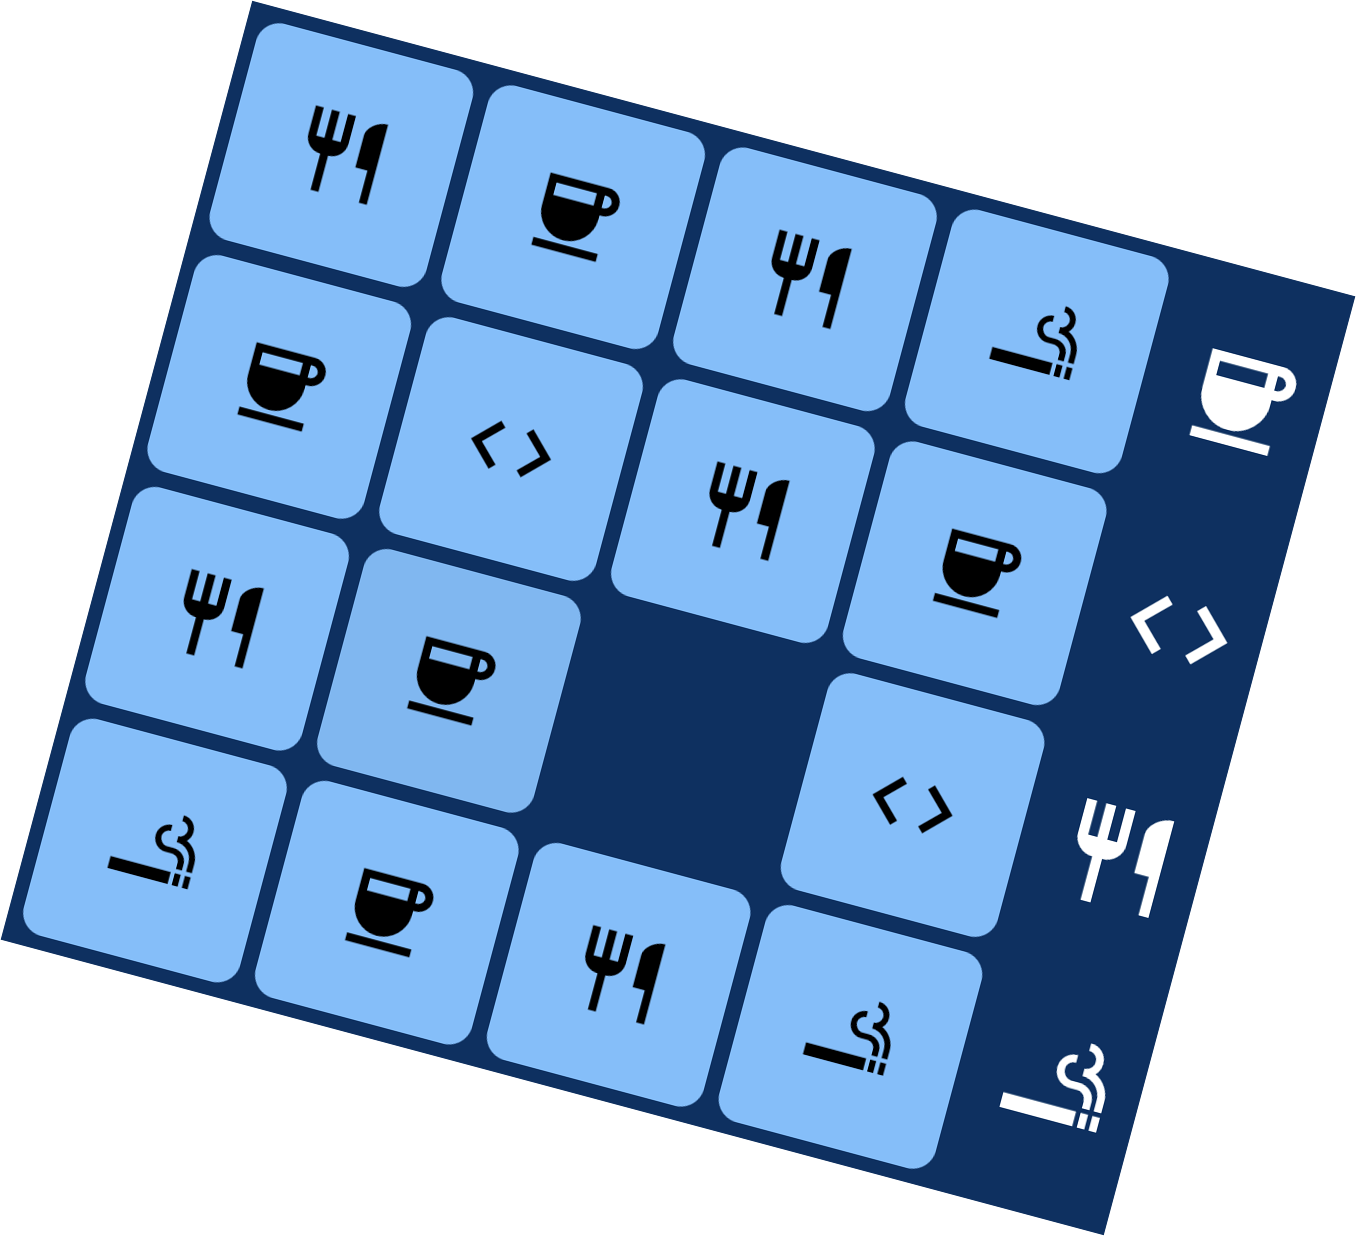
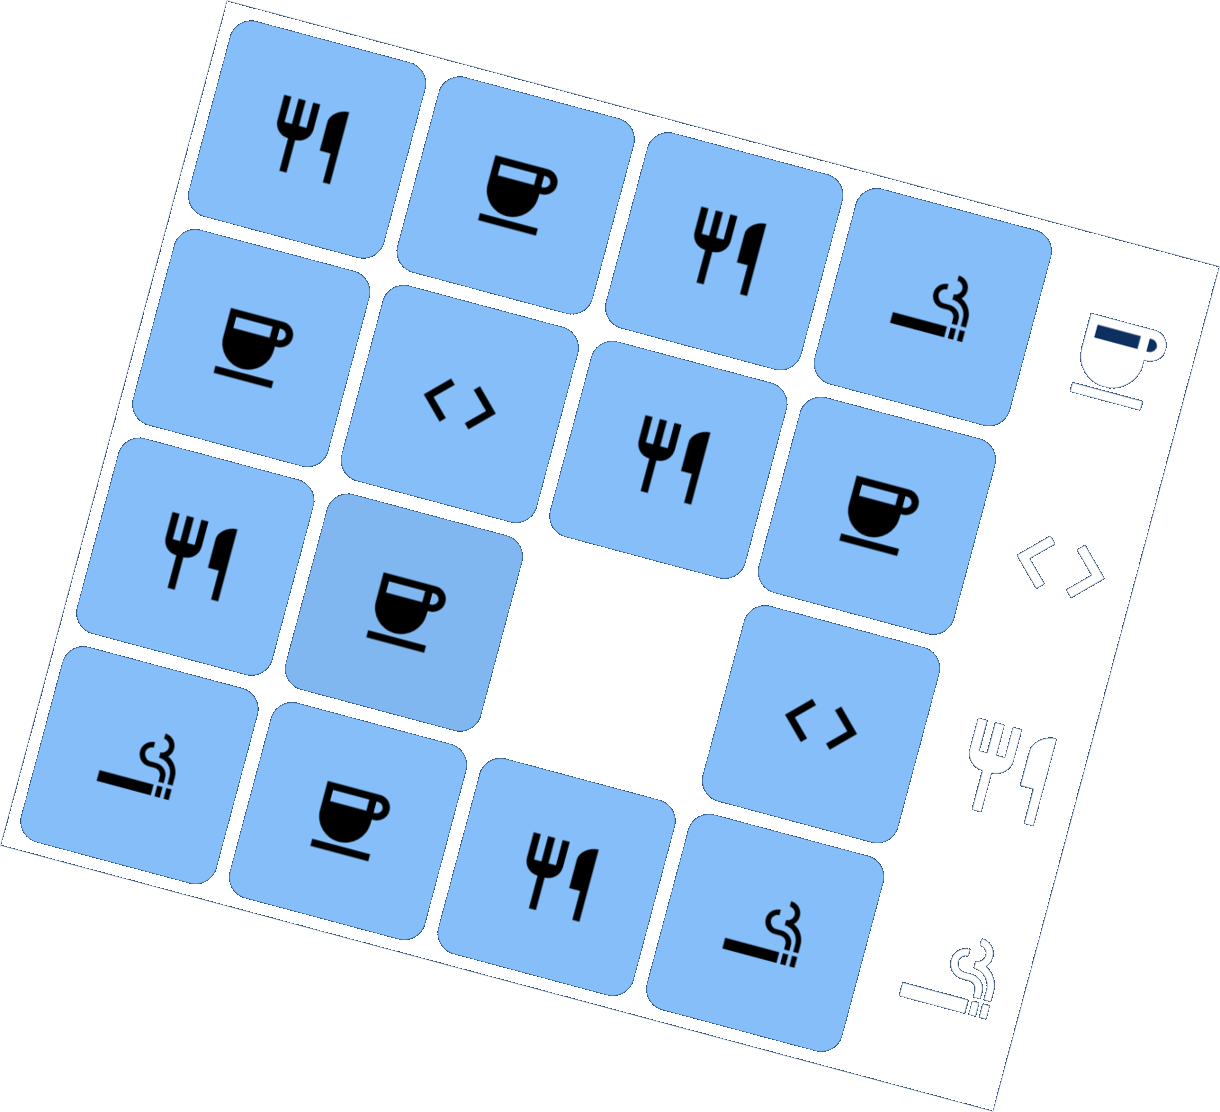
share screen theme

Changed region(s): [[0.0934, 0.0, 0.9967, 1.0], [0.0, 0.3975, 0.0934, 0.7644], [0.0311, 0.7644, 0.2492, 0.8255]]

diff --git a/lib/puzzle/view/puzzle_page.dart b/lib/puzzle/view/puzzle_page.dart
@@ -23,7 +23,7 @@ class PuzzlePage extends StatelessWidget {
     return AnimatedSplashScreen(
       animationDuration: Duration.zero,
       splash: Scaffold(
-        backgroundColor: PuzzleColors.greenPrimary,
+        backgroundColor: PuzzleColors.black,
         body: Center(
           child: Column(
             mainAxisAlignment: MainAxisAlignment.center,
@@ -68,7 +68,7 @@ class PuzzlePage extends StatelessWidget {
       pageTransitionType: PageTransitionType.bottomToTop,
       curve: Curves.easeInOut,
       splashIconSize: MediaQuery.of(context).size.width,
-      backgroundColor: PuzzleColors.greenPrimary,
+      backgroundColor: PuzzleColors.black,
     );
   }
 }
@@ -90,14 +90,15 @@ class PuzzleView extends StatelessWidget {
         body: AnimatedContainer(
           duration: PuzzleThemeAnimationDuration.backgroundColorChange,
           decoration: BoxDecoration(
-              gradient: LinearGradient(
-            begin: Alignment.topRight,
-            end: Alignment.bottomLeft,
-            colors: [
-              theme.backgroundTopRightColor,
-              theme.backgroundBottomLeftColor,
-            ],
-          )),
+            gradient: LinearGradient(
+              begin: Alignment.topRight,
+              end: Alignment.bottomLeft,
+              colors: [
+                theme.backgroundTopRightColor,
+                theme.backgroundBottomLeftColor,
+              ],
+            ),
+          ),
           child: MultiBlocProvider(
             providers: [
               BlocProvider(

diff --git a/lib/audio_control/widget/audio_control.dart b/lib/audio_control/widget/audio_control.dart
@@ -33,18 +33,21 @@ class AudioControl extends StatelessWidget {
               key: const Key('audio_control_small'),
               width: 24,
               height: 24,
+              color: Colors.white,
             ),
             medium: (_, __) => Image.asset(
               audioAsset,
               key: const Key('audio_control_medium'),
               width: 33,
               height: 33,
+              color: Colors.white,
             ),
             large: (_, __) => Image.asset(
               audioAsset,
               key: const Key('audio_control_large'),
               width: 33,
               height: 33,
+              color: Colors.white,
             ),
           ),
         ),

diff --git a/lib/jam/widgets/jam_score.dart b/lib/jam/widgets/jam_score.dart
@@ -71,7 +71,16 @@ class JamScore extends StatelessWidget {
           child: Container(
             width: double.infinity,
             height: height,
-            color: theme.defaultColor,
+            decoration: BoxDecoration(
+              gradient: LinearGradient(
+                begin: Alignment.topRight,
+                end: Alignment.bottomLeft,
+                colors: [
+                  theme.backgroundTopRightColor,
+                  theme.backgroundBottomLeftColor,
+                ],
+              ),
+            ),
             child: Stack(
               children: [
                 Positioned(

diff --git a/lib/jam/themes/jam_theme.dart b/lib/jam/themes/jam_theme.dart
@@ -26,9 +26,6 @@ abstract class JamTheme extends PuzzleTheme {
   @override
   PuzzleLayoutDelegate get layoutDelegate => const JamPuzzleLayoutDelegate();
 
-  /// The text color of the countdown timer.
-  Color get countdownColor;
-
   /// The path to the success image asset of this theme.
   ///
   /// This asset is shown in the success state of the Jam puzzle.
@@ -46,7 +43,6 @@ abstract class JamTheme extends PuzzleTheme {
         audioControlOnAsset,
         audioControlOffAsset,
         layoutDelegate,
-        countdownColor,
         successThemeAsset,
         audioAsset
       ];

diff --git a/lib/jam/widgets/jam_puzzle_tile.dart b/lib/jam/widgets/jam_puzzle_tile.dart
@@ -107,7 +107,7 @@ class _JamPuzzleTileState extends State<JamPuzzleTile> {
         duration: movementDuration,
         curve: Curves.easeInOut,
         child: AnimatedSwitcher(
-          duration: const Duration(milliseconds: 500),
+          duration: const Duration(milliseconds: 600),
           transitionBuilder: __transitionBuilder,
           child: ResponsiveLayoutBuilder(
             key: ValueKey(Random().nextDouble()),

diff --git a/lib/jam/widgets/jam_countdown.dart b/lib/jam/widgets/jam_countdown.dart
@@ -168,7 +168,7 @@ class _JamCountdownSecondsToBeginState extends State<JamCountdownSecondsToBegin>
           child: Text(
             widget.secondsToBegin.toString(),
             style: PuzzleTextStyle.countdownTime.copyWith(
-              color: theme.countdownColor,
+              color: theme.defaultColor,
             ),
           ),
         ),

diff --git a/lib/jam/themes/yellow_jam_theme.dart b/lib/jam/themes/yellow_jam_theme.dart
@@ -22,9 +22,6 @@ class YellowJamTheme extends JamTheme {
   Color get defaultColor => PuzzleColors.yellow90;
 
   @override
-  Color get countdownColor => PuzzleColors.yellow50;
-
-  @override
   String get successThemeAsset => 'assets/images/jam/success/yellow.png';
 
   @override

diff --git a/lib/jam/themes/green_jam_theme.dart b/lib/jam/themes/green_jam_theme.dart
@@ -22,9 +22,6 @@ class GreenJamTheme extends JamTheme {
   Color get defaultColor => PuzzleColors.green90;
 
   @override
-  Color get countdownColor => PuzzleColors.green50;
-
-  @override
   String get successThemeAsset => 'assets/images/jam/success/green.png';
 
   @override

diff --git a/lib/jam/themes/blue_jam_theme.dart b/lib/jam/themes/blue_jam_theme.dart
@@ -22,9 +22,6 @@ class BlueJamTheme extends JamTheme {
   Color get defaultColor => PuzzleColors.blue90;
 
   @override
-  Color get countdownColor => PuzzleColors.blue50;
-
-  @override
   String get successThemeAsset => 'assets/images/jam/success/blue.png';
 
   @override
